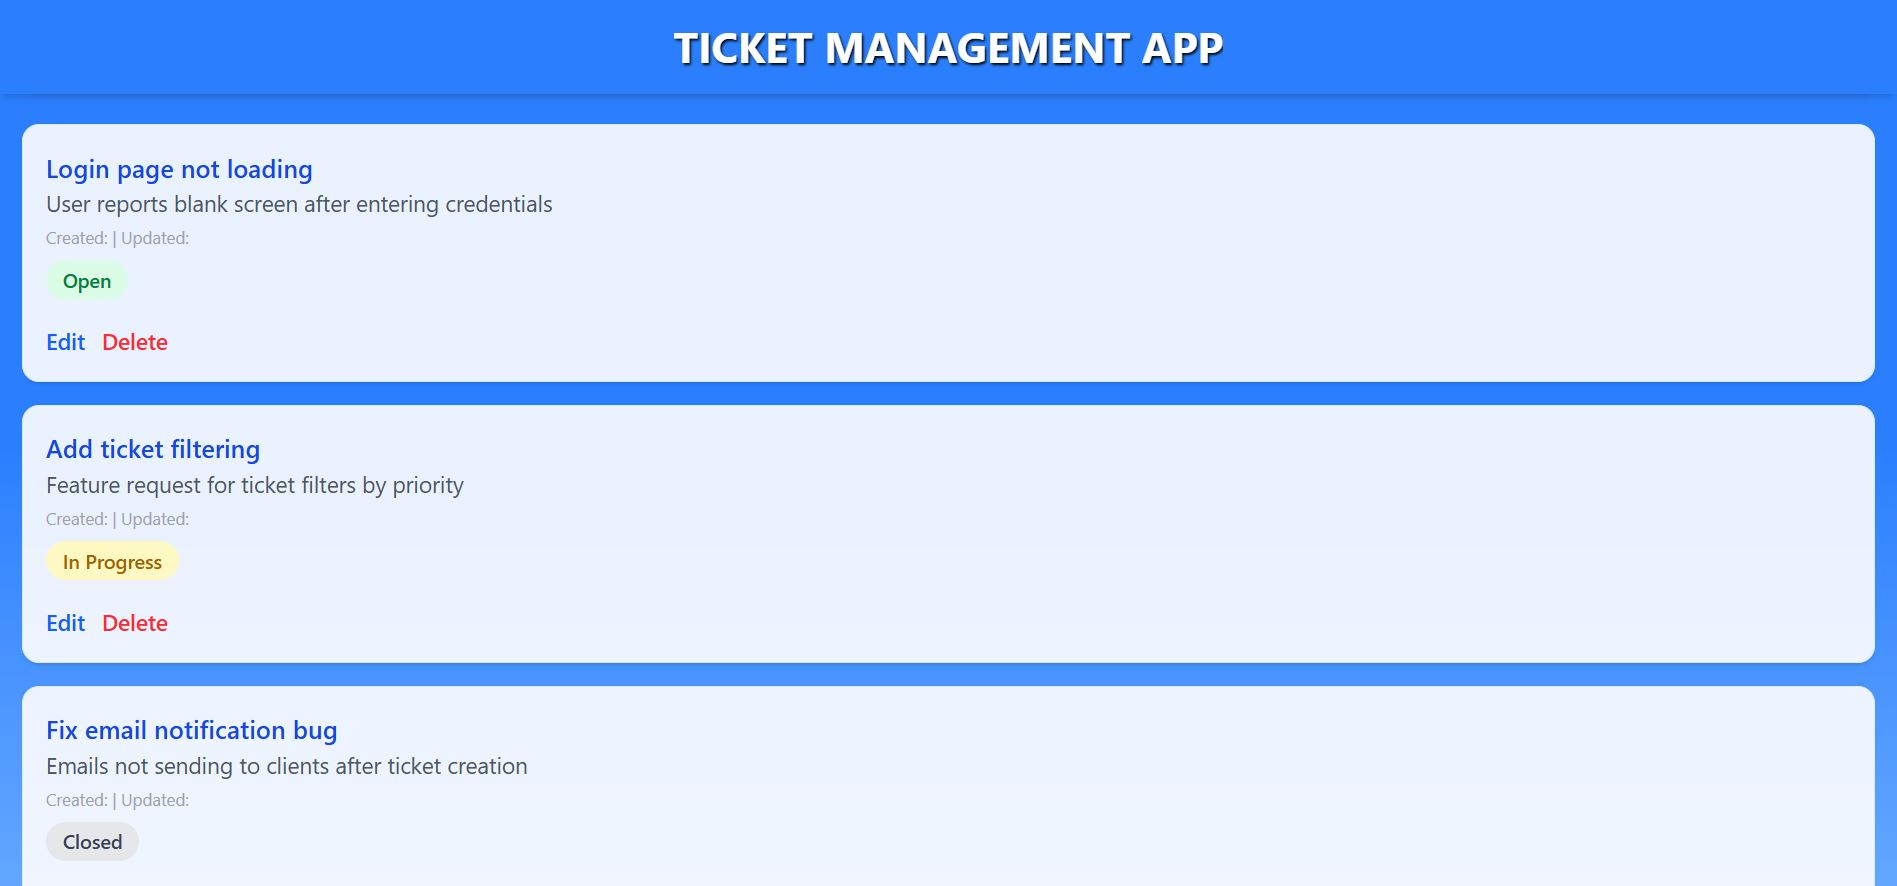
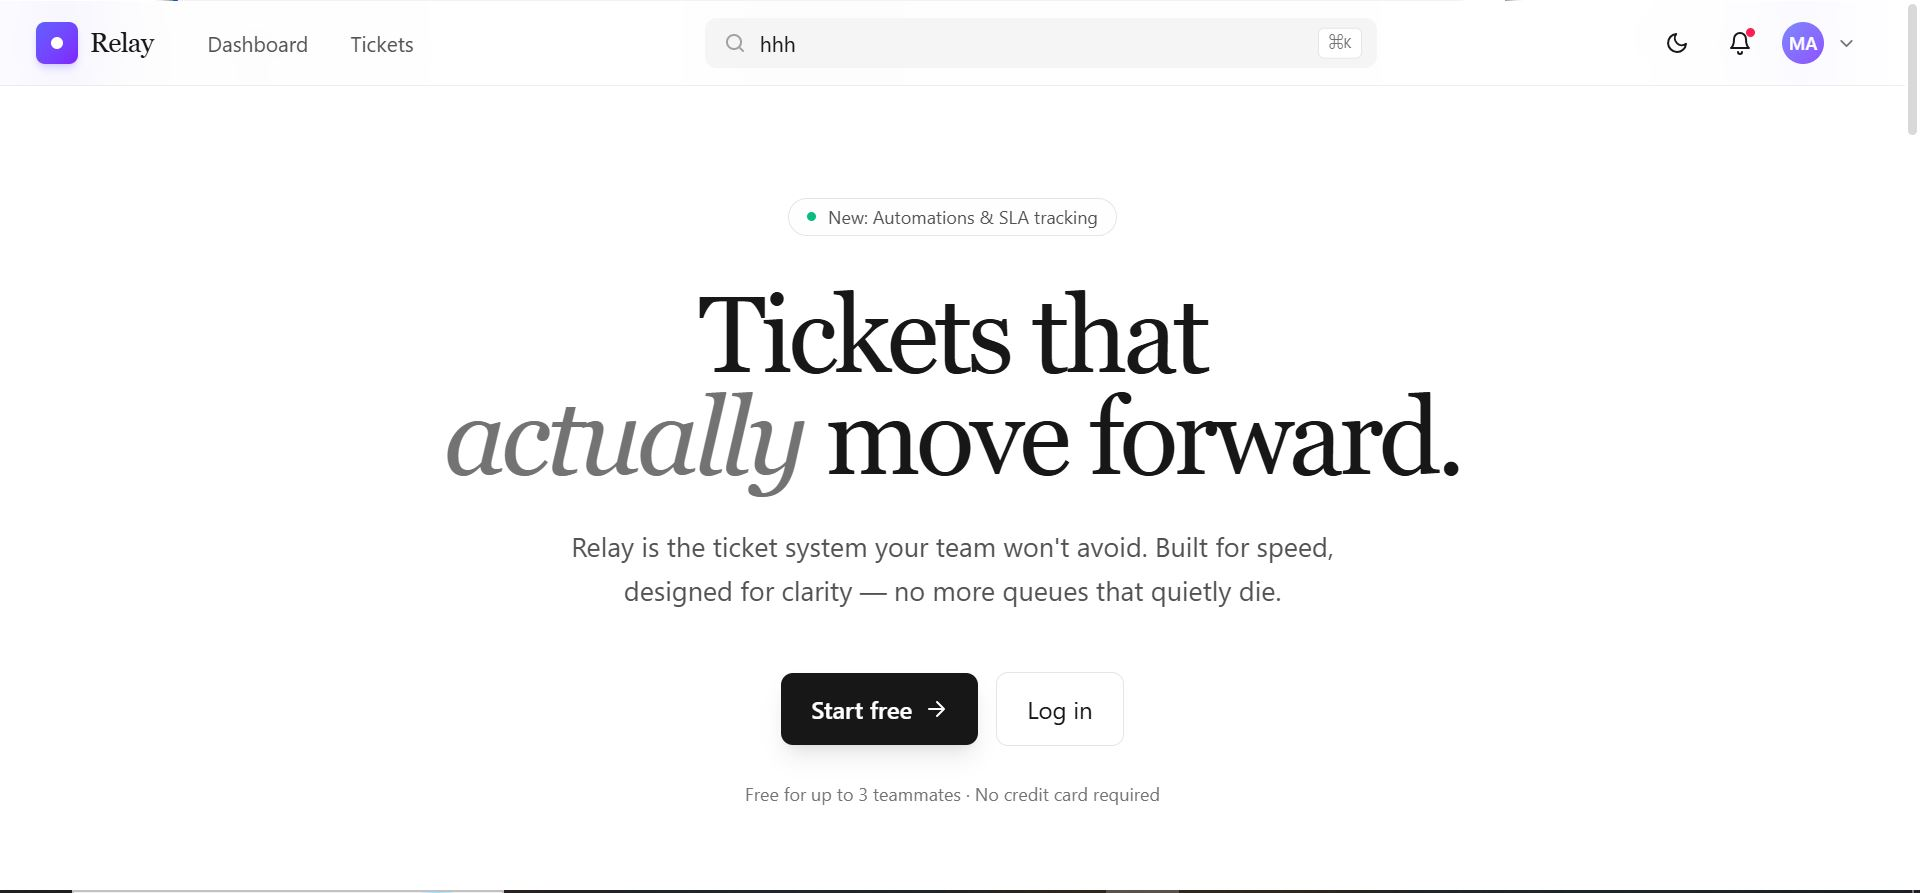
portfolio-update

diff --git a/src/utils/projects.js b/src/utils/projects.js
@@ -108,8 +108,8 @@ export default [
     imgs: ["/images/img28.webp", "/images/img29.webp"],
   },
   {
-    id: "Ticket-MA",
-    title: "Ticket-MA - Team Task & Issue Tracking Software",
+    id: "Relay",
+    title: "Relay - Team Task & Issue Tracking Software",
     description:
       "Small teams don't fail because they lack tools — they fail because their tools have ten features they don't need and miss the three they do. Ticket-MA strips ticket management down to what actually moves work forward: create, assign, track, resolve. I built it for teams that want Jira's clarity without Jira's learning curve. Real-time updates keep everyone aligned without Slack pings, and the interface is intuitive enough that a new team member is productive in under five minutes. Architecturally, I separated state management from rendering logic so the app stays snappy even as ticket volume grows, and animations are tuned to communicate state changes (assigned, in-progress, resolved) without distracting from the work itself. A reminder that good software gets out of the way.",
     metaDescription:
